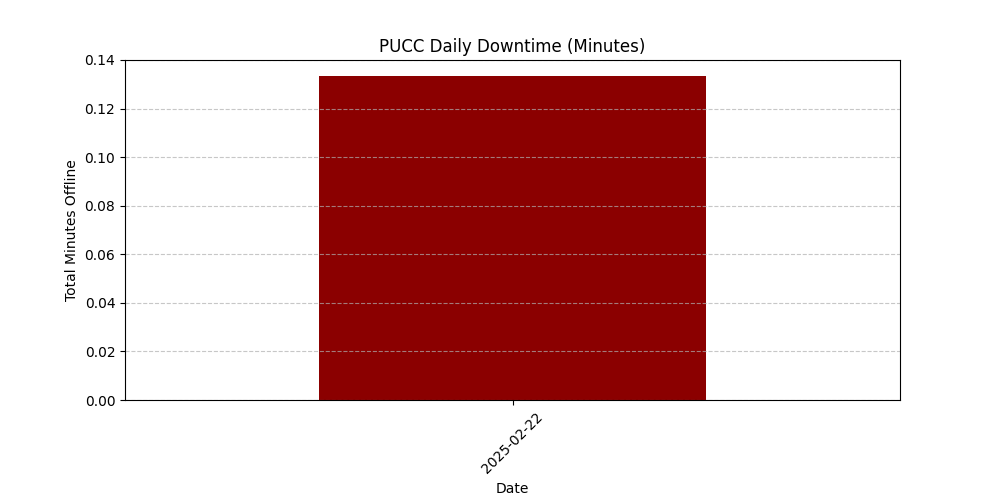
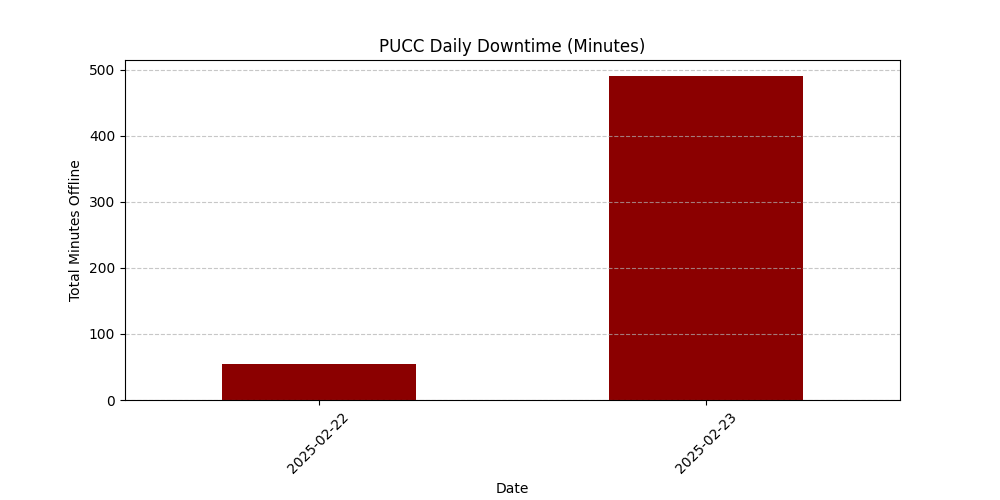
deploy: 10feba9f67e0002118874d290fe59e500f7b1bbb

diff --git a/report/pucc_analysis_report.html b/report/pucc_analysis_report.html
@@ -31,7 +31,11 @@
   <tbody>
     <tr>
       <th>2025-02-22</th>
-      <td>0.133333</td>
+      <td>54.983333</td>
+    </tr>
+    <tr>
+      <th>2025-02-23</th>
+      <td>490.266667</td>
     </tr>
   </tbody>
 </table>
@@ -53,6 +57,10 @@
   <tbody>
     <tr>
       <th>2025-02-22</th>
+      <td>50.0</td>
+    </tr>
+    <tr>
+      <th>2025-02-23</th>
       <td>50.0</td>
     </tr>
   </tbody>
@@ -87,6 +95,60 @@
       <td>2025-02-22 19:17:30</td>
       <td>2025-02-22</td>
       <td>2025-02-22 19:17:30</td>
+      <td>Unavailable</td>
+    </tr>
+    <tr>
+      <td>2025-02-22 21:00:03</td>
+      <td>2025-02-22</td>
+      <td>2025-02-22 21:00:03</td>
+      <td>Unavailable</td>
+    </tr>
+    <tr>
+      <td>2025-02-22 21:13:56</td>
+      <td>2025-02-22</td>
+      <td>2025-02-22 21:13:56</td>
+      <td>Unavailable</td>
+    </tr>
+    <tr>
+      <td>2025-02-22 21:26:37</td>
+      <td>2025-02-22</td>
+      <td>2025-02-22 21:26:37</td>
+      <td>Unavailable</td>
+    </tr>
+    <tr>
+      <td>2025-02-23 08:08:17</td>
+      <td>2025-02-23</td>
+      <td>2025-02-23 08:08:17</td>
+      <td>Unavailable</td>
+    </tr>
+    <tr>
+      <td>2025-02-23 08:40:40</td>
+      <td>2025-02-23</td>
+      <td>2025-02-23 08:40:40</td>
+      <td>Unavailable</td>
+    </tr>
+    <tr>
+      <td>2025-02-23 09:57:32</td>
+      <td>2025-02-23</td>
+      <td>2025-02-23 09:57:32</td>
+      <td>Unavailable</td>
+    </tr>
+    <tr>
+      <td>2025-02-23 12:34:00</td>
+      <td>2025-02-23</td>
+      <td>2025-02-23 12:34:00</td>
+      <td>Unavailable</td>
+    </tr>
+    <tr>
+      <td>2025-02-23 17:33:14</td>
+      <td>2025-02-23</td>
+      <td>2025-02-23 17:33:14</td>
+      <td>Unavailable</td>
+    </tr>
+    <tr>
+      <td>2025-02-23 21:00:15</td>
+      <td>2025-02-23</td>
+      <td>2025-02-23 21:00:15</td>
       <td>Unavailable</td>
     </tr>
   </tbody>
